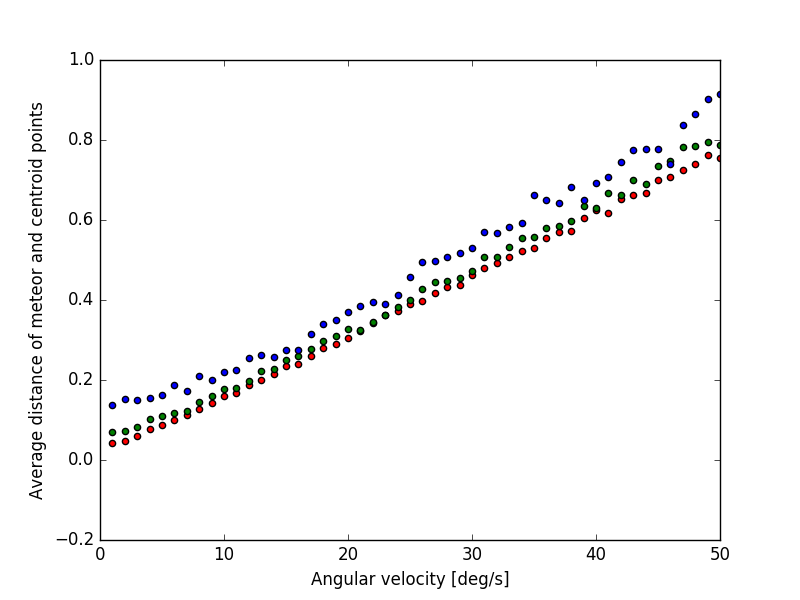
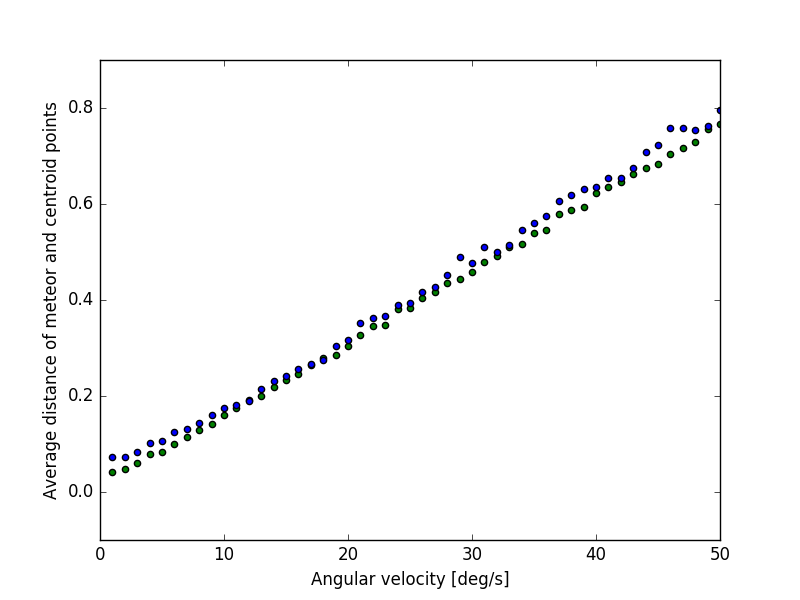
Faster gaussian evaluating, plotting moved to PlotData

diff --git a/RollingShutterSim.py b/RollingShutterSim.py
@@ -44,7 +44,7 @@ def twoDimensionalGaussian(x, y, x0, y0, sigma_x, sigma_y, amplitude):
         y0: [int or float] Y coordinate of the center of the distribution.
         sigma_x: [float] Standard deviation along the X axis.
         sigma_y: [float] Standard deviation along the Y axis.
-        amplitude: [float] Mmplitude of the Gaussian distribution.
+        amplitude: [float] Amplitude of the Gaussian distribution.
 
     Return:
         p [float]: Probability at a given point.
@@ -76,13 +76,6 @@ def meteorCentroid(img, x0, y0, x_start, x_finish, y_start, y_finish):
     Return:
         (x_centr, y_centr): [tuple of floats] X and Y coordinates of the calculated centroid, 
     """
-
-    # Define starting and finishing points
-    x_start = int(round(x_start))
-    x_finish = int(round(x_finish))
-    y_start = int(round(y_start))
-    y_finish = int(round(y_finish))
-
 
     # Calculate length of meteor
     r = np.sqrt((x_finish - x_start)**2 + (x_finish - x_start)**2)
@@ -158,11 +151,6 @@ def pointsCentroidAndModel(t_meteor, phi, omega, img_x, img_y, scale, multi_fact
     x_center = img_x/2
     y_center = img_y/2
 
-    # Frame grid
-    x_frame = np.arange(0, img_x)
-    y_frame = np.arange(0, img_y)
-    xx, yy = np.meshgrid(x_frame, y_frame)
-
     # Lists of model and centroid coordinates
     centroid_coordinates = []
     model_coordinates = []
@@ -205,6 +193,16 @@ def pointsCentroidAndModel(t_meteor, phi, omega, img_x, img_y, scale, multi_fact
             y_finish -= 3*sigma_y
 
 
+        # Adjusting crop borders
+        x_start = int(round(x_start))
+        x_finish = int(round(x_finish))
+        y_start = int(round(y_start))
+        y_finish = int(round(y_finish))
+
+        # Two dimensional gaussian function crop window
+        x_window = np.arange(x_start, x_finish)
+        y_window = np.arange(y_start, y_finish)
+        xx, yy = np.meshgrid(x_window, y_window)
 
         # Image array
         img_array = np.zeros((img_y, img_x), np.float_)
@@ -213,7 +211,8 @@ def pointsCentroidAndModel(t_meteor, phi, omega, img_x, img_y, scale, multi_fact
             # Draw two dimensional Gaussian function for each point in time
             x, y = drawPoints(t, x_center, y_center, scale, phi, omega)
             temp = twoDimensionalGaussian(xx, yy, x, y, sigma_x, sigma_y, amplitude)
-            img_array += temp
+
+            img_array[y_start:y_finish, x_start:x_finish] += temp
 
 
         # Add Gaussian noise and offset
@@ -362,37 +361,5 @@ if __name__ == "__main__":
         noise_diff_arr.append(diff_avg_avg)
 
 
-    # Plotting
-    plt.scatter(omega_arr, noise_diff_arr[0], c = 'red')
-    plt.scatter(omega_arr, noise_diff_arr[1], c = 'green')
-    plt.scatter(omega_arr, noise_diff_arr[2], c = 'blue')
-    plt.xlabel('Angular velocity [deg/s]')
-    plt.ylabel('Average distance of meteor and centroid points')
-    plt.xlim([0, np.amax(omega_arr)])
-
-    # Save figure
-    plt.savefig('noise_difference_graph.png')
-
-    plt.show()
-
-
-    # Checking
-    #centroid, model = pointsCentroidAndModel(t_meteor, phi, omega, img_x, img_y, scale, multi_factor, sigma_x, sigma_y, offset, show_plots)
-    #print(centroid, model)
-
-    """
-    ### Displaying the meteor's movement ###
-
-    x_arr, y_arr = drawPoints(t_arr, img_x, img_y, scale, phi, omega)
-
-    # Make scatter plot
-    plt.scatter(x_arr, y_arr, c = t_arr)
-
-    # Set plot size
-    plt.xlim([0, img_x])
-    plt.ylim([img_y, 0])
-
-    plt.colorbar(label = 'Time (s)')
-
-    plt.show()
-    """ 
+    # Saving data
+    np.savez('data.npz', omega_arr, noise_diff_arr[0], noise_diff_arr[1], noise_diff_arr[2])

diff --git a/PlotData.py b/PlotData.py
@@ -1,0 +1,29 @@
+import matplotlib.pyplot as plt
+import numpy as np
+
+
+# Loading .NPZ file
+data = np.load('data.npz')
+
+# Setting variable names
+omega_arr = data['arr_0']
+noise0 = data['arr_0']
+noise1 = data['arr_1']
+noise2 = data['arr_2']
+
+print(noise0)
+print(noise1)
+print(noise2)
+
+# Plotting
+#plt.scatter(omega_arr, noise0, c = 'red')
+plt.scatter(omega_arr, noise1, c = 'green')
+plt.scatter(omega_arr, noise2, c = 'blue')
+plt.xlabel('Angular velocity [deg/s]')
+plt.ylabel('Average distance of meteor and centroid points')
+plt.xlim([0, np.amax(omega_arr)])
+
+# Saving figure
+plt.savefig('noise_difference_graph.png')
+
+plt.show()
